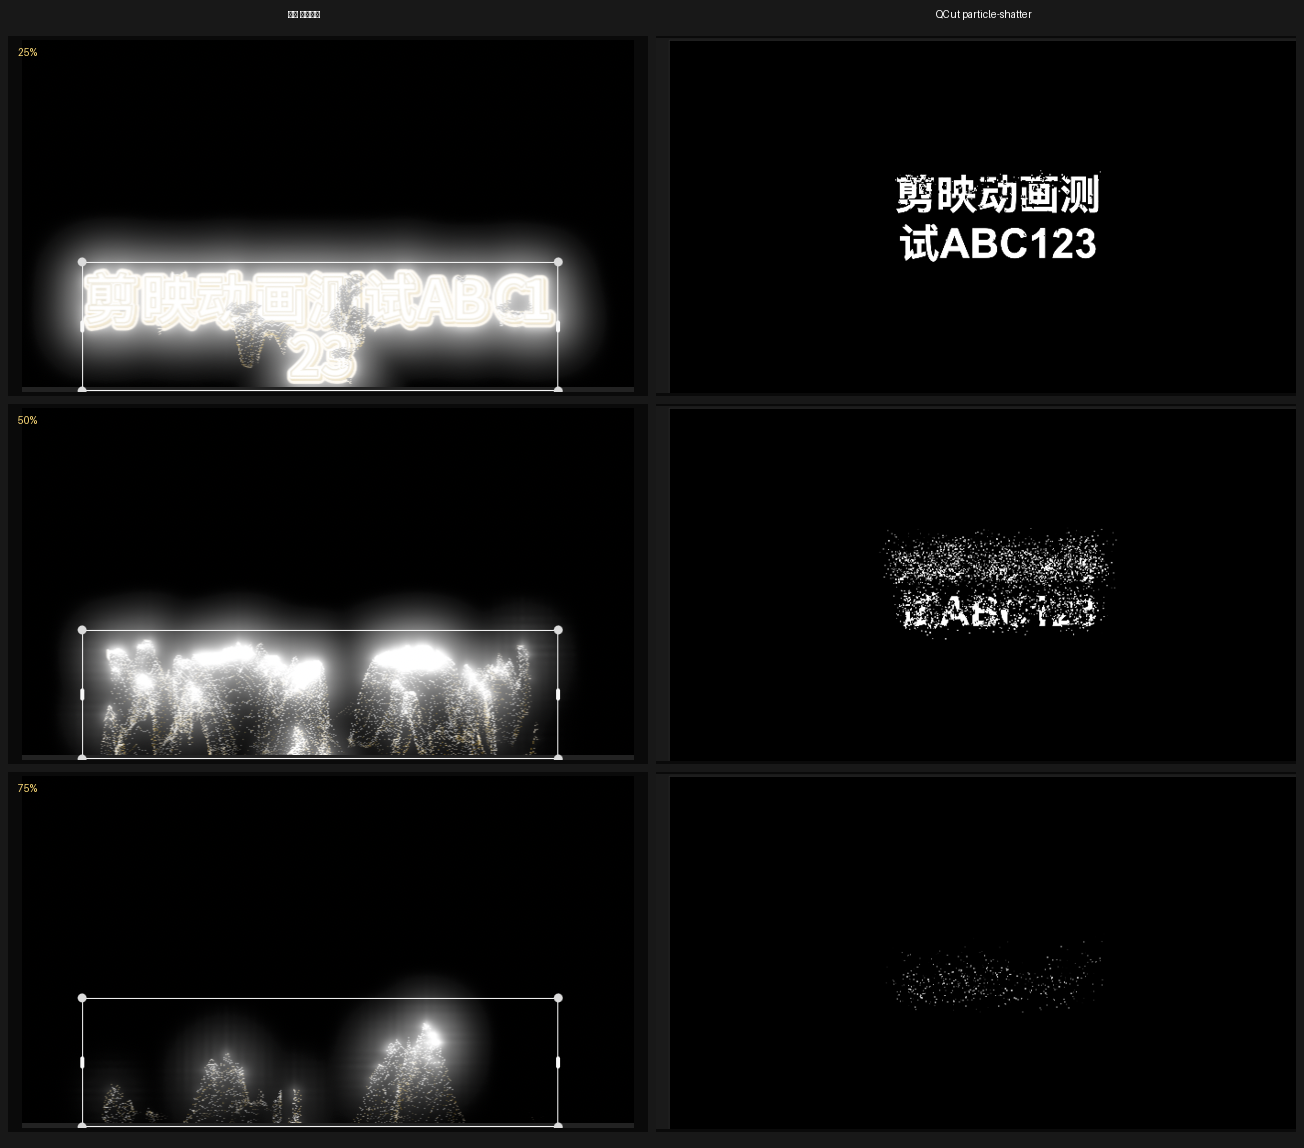
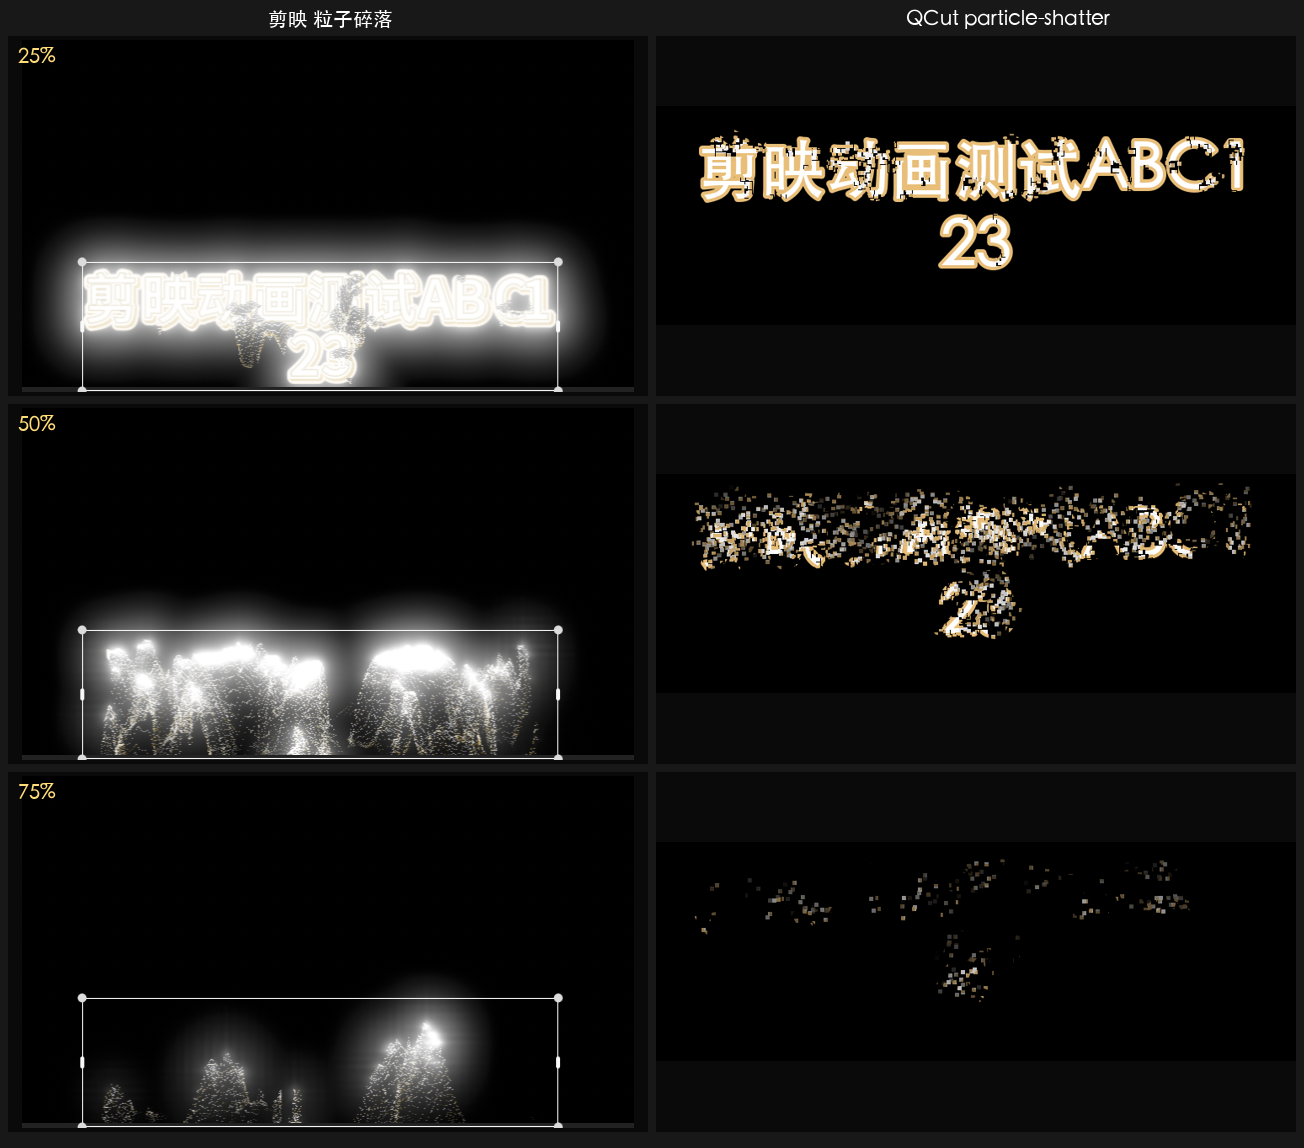
feat(text): fit shatter drift to the reference sparkle frames
Drift was large enough to migrate the whole dust mass off the glyphs;
the reference sparkles roughly in place. Fits distortion 0.18em,
gravity 0.22em upward and feather 0.5 against the 25/50/75% captures,
and documents the headless calibration path that renders through the
real engine without occupying the editor. Drops the confetti and
lucky-bag grids, whose QCut halves predate the spark-ray fix.

diff --git a/qcut/apps/web/src/lib/text/text-animation-presets/effects.ts b/qcut/apps/web/src/lib/text/text-animation-presets/effects.ts
@@ -302,15 +302,18 @@ export function effectForPreset({
 			return {
 				kind: "shatter",
 				tilePx: 4,
-				distortion: 0.5,
-				// Released dust drifts upward in the reference. Distances are
-				// magnitudes (normalize clamps negatives to zero), so the
-				// direction rides on gravityRotDeg.
-				gravity: { value: 0.9, unit: "em" },
+				// Fitted against the reference 25/50/75% frames: released dust
+				// sparkles roughly in place rather than migrating off the glyph,
+				// so the drift stays a fraction of the em box. Distances are
+				// magnitudes (normalization clamps negatives to zero), so the
+				// upward direction rides on gravityRotDeg.
+				distortion: 0.18,
+				gravity: { value: 0.22, unit: "em" },
 				gravityRotDeg: 180,
 				front: "noise",
-				frontRotDeg: 0,
-				feather: 0.35,
+				// A wide feather is what makes the mid-exit frame read as a dense
+				// sparkle mass instead of a hard erosion edge.
+				feather: 0.5,
 			};
 		case "exit:spiral-down":
 			// Reference tumbles at full brightness and vanishes by falling

diff --git a/qcut/packages/editor-core/src/text-animation/shatter.ts b/qcut/packages/editor-core/src/text-animation/shatter.ts
@@ -99,9 +99,10 @@ const SHATTER_NOISE_CELL_TILES = 3.5;
 
 /**
  * The reference frames erode glyph tops first and leave baseline mounds for
- * last; this vertical bias is mixed into the noise site.
+ * last, so the dissolve site mixes in the tile's vertical position. Fitted at
+ * 0.3: stronger reads as a hard top-down wipe, weaker loses the mounds.
  */
-const SHATTER_VERTICAL_BIAS = 0.5;
+const SHATTER_VERTICAL_BIAS = 0.3;
 
 /**
  * Ports LumiDust's vertex math (evidence:

diff --git a/qcut/docs/task/text-particle-pipeline/IMPLEMENTATION.md b/qcut/docs/task/text-particle-pipeline/IMPLEMENTATION.md
@@ -189,6 +189,26 @@ QCut 侧参数命名照抄此表,便于后续对照。
 - [ ] jianying-reference 技能回填新经验(如有新增)
 - [ ] PR + CI + 对比图入 PR 正文
 
+## 3b. 标定结果与无头验证法(2026-07-30 收口)
+
+粒子碎落最终拟合值(对齐 25/50/75% 参照帧):
+
+| 参数 | 值 | 依据 |
+|---|---|---|
+| `tilePx` | 4 | 参照帧颗粒尺度 |
+| `distortion` | 0.18 em | 释放尘埃基本**原位闪烁**,不整体迁离字形 |
+| `gravity` | 0.22 em @ `gravityRotDeg 180` | 上飘;**注意** `normalizeDistance` 把负值夹为 0,方向必须走角度 |
+| `feather` | 0.5 | 宽前沿才是中段"致密闪烁"而非硬擦除边 |
+| `SHATTER_VERTICAL_BIAS` | 0.3 | 字顶先蚀、基线残丘最后消失;更大像自上而下硬擦 |
+
+**无头标定法**(不占用编辑器、不依赖用户机器空闲):PIL 把演示文字栅格成 RGBA →
+bun 直接 import `shatter.ts` 的 `computeShatterTiles`(真实引擎代码)按 tile 位移合成 →
+PIL 拼对比图。一轮迭代数秒,可在别人正在使用 QCut 时安全进行。脚本形态见会话
+scratchpad `headless/render-shatter.ts`。
+
+已知残余差异:剪映有 DeepGlow 辉光与逐粒子运动拖尾(尘埃呈上升条纹),QCut 当前
+为无拖尾的方块颗粒 —— 结构同级、亮度与拖尾待后续。
+
 ## 4. 文件触点清单(预估)
 
 ```
